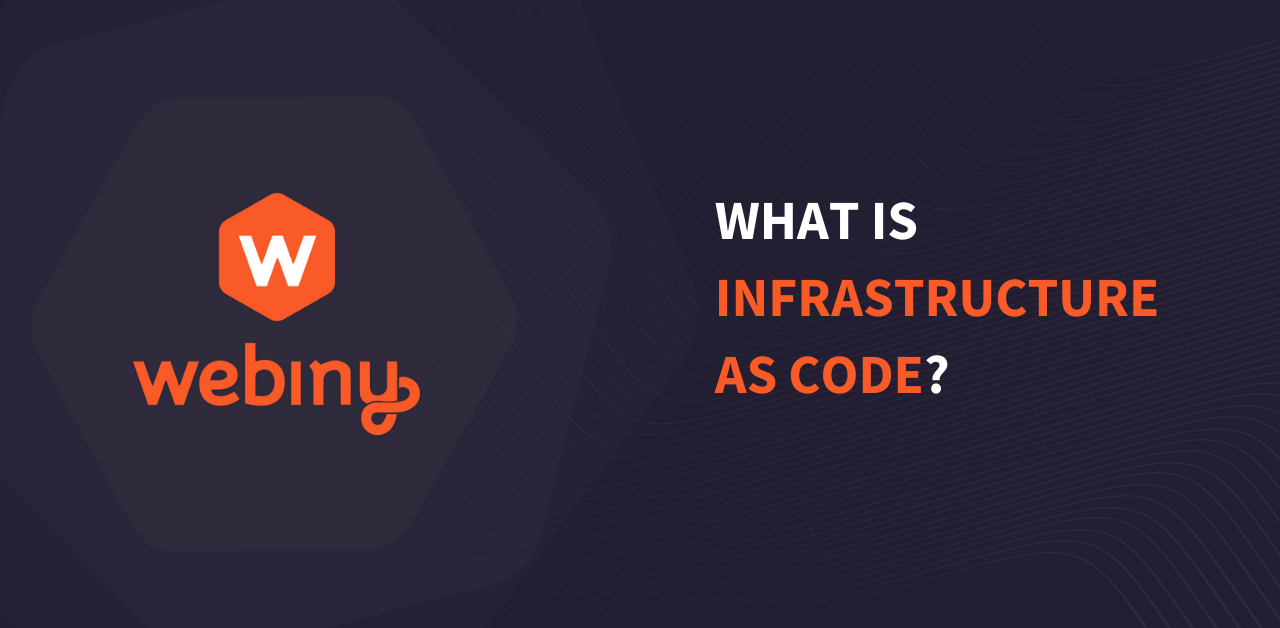
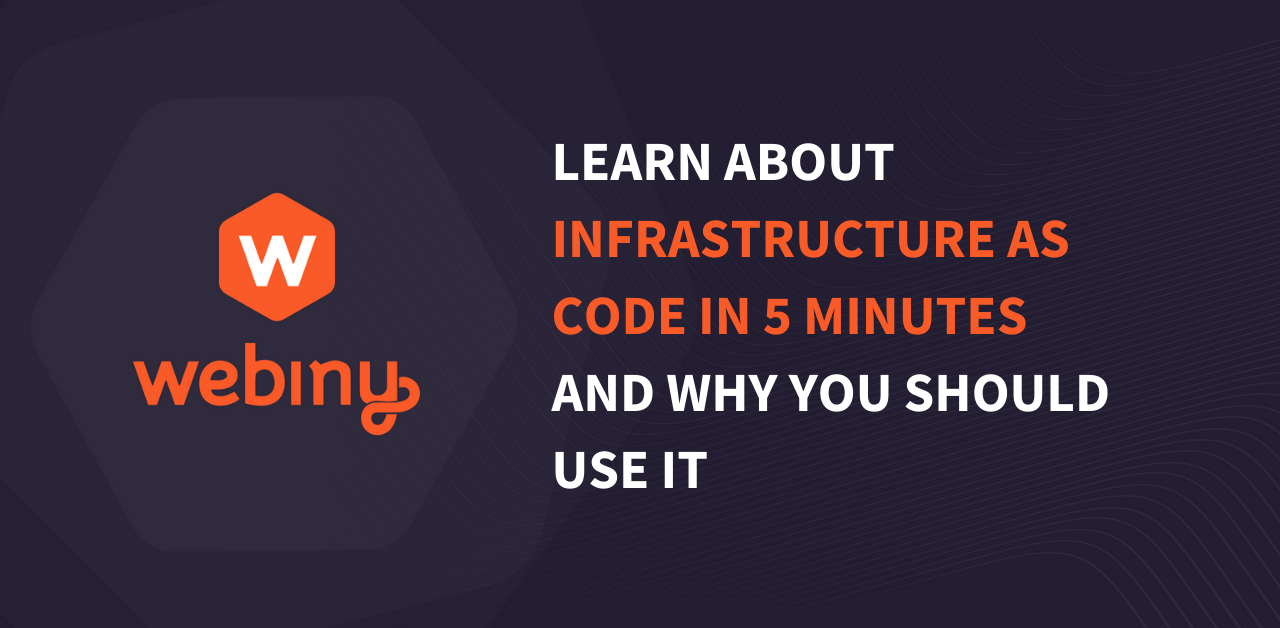
docs: updated title for IaC and added Igor as the author

Changed region(s): [[0.4062, 0.2118, 0.9062, 0.6656], [0.4062, 0.6959, 0.5625, 0.7866]]

diff --git a/src/components/blog/components/blogAuthors.js b/src/components/blog/components/blogAuthors.js
@@ -7,6 +7,8 @@ import nicoImg from "../assets/nico.png";
 import pavelImg from "../assets/pavel.png";
 import svenImg from "../assets/sven.png";
 import swapnilImg from "../assets/swapnil.png";
+import IgorImg from "../assets/igor.png";
+
 
 export default {
     sven: {
@@ -62,5 +64,9 @@ export default {
         description: "Developer Relations @ Webiny",
         twitter: "swapnilmmane",
         avatar: swapnilImg
+    },
+    igor: {
+        name: "Igor Bobriakov",
+        avatar: IgorImg
     }
 };
